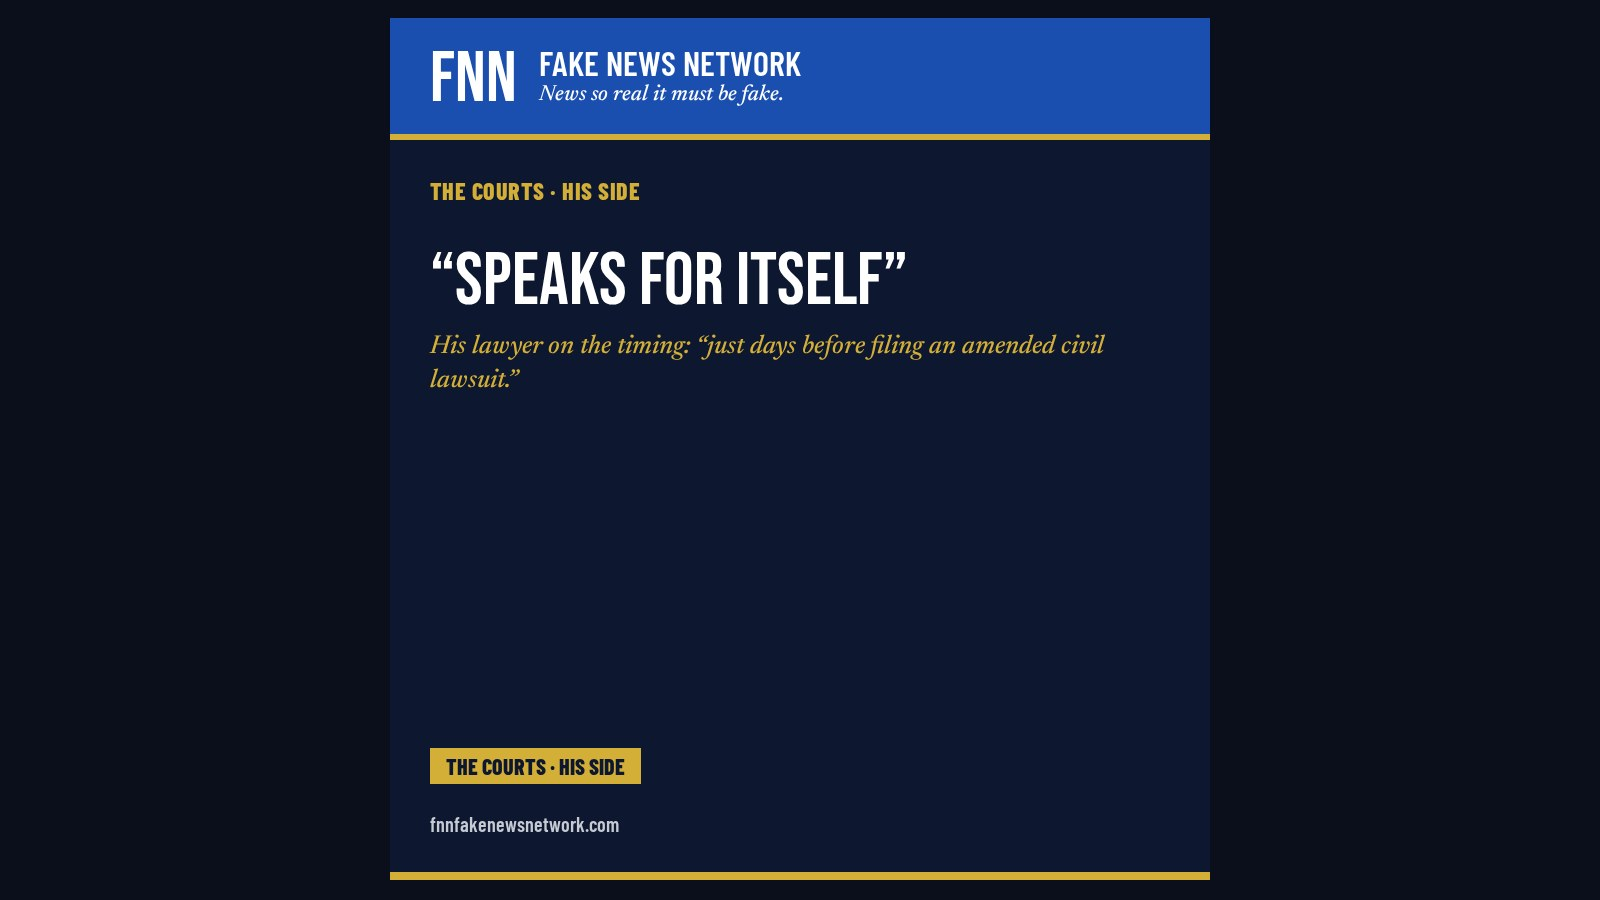
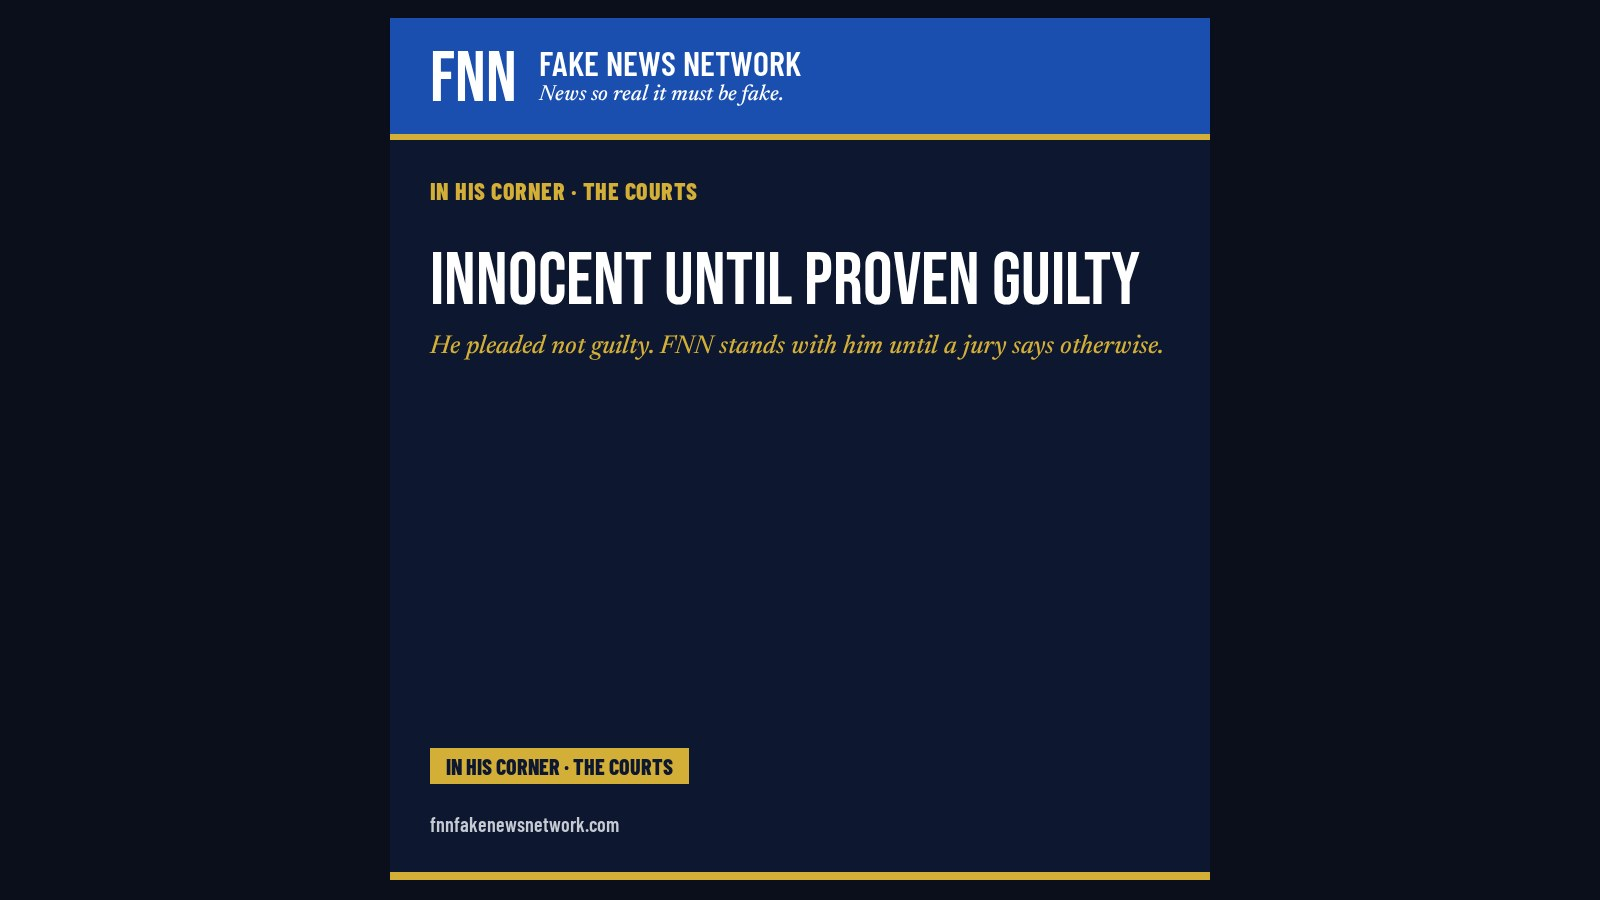
Rewrite Clavicular story as FNN defense ('Innocent Until Proven Guilty. Clavicular Deserves That Too.'): pundits convicted him before any trial; not-guilty plea; Meier: 'categorically denies these allegations', 'nothing to report', timing 'speaks for itself'; motion to dismiss; FNN stands with him u

diff --git a/s/clavicular-lawyer-timing-speaks-for-itself/index.html b/s/clavicular-lawyer-timing-speaks-for-itself/index.html
@@ -2,29 +2,29 @@
 <html lang="en"><head>
 <meta charset="utf-8">
 <meta name="viewport" content="width=device-width, initial-scale=1">
-<title>Clavicular Pleads Not Guilty, and His Lawyer Says the Timing “Speaks for Itself”</title>
-<meta name="description" content="Clavicular pleaded not guilty. His lawyer: he “categorically denies these allegations,” and the timing of the complaint “speaks for itself.”">
+<title>Innocent Until Proven Guilty. Clavicular Deserves That Too.</title>
+<meta name="description" content="The pundits convicted Clavicular before any trial. He pleaded not guilty, and his lawyer says the timing “speaks for itself.” FNN stands with him until a jury says otherwise.">
 <link rel="canonical" href="https://www.fnnfakenewsnetwork.com/story/clavicular-lawyer-timing-speaks-for-itself">
 <meta property="og:type" content="article">
 <meta property="og:site_name" content="FNN Fake News Network">
-<meta property="og:title" content="Clavicular Pleads Not Guilty, and His Lawyer Says the Timing “Speaks for Itself”">
-<meta property="og:description" content="Clavicular pleaded not guilty. His lawyer: he “categorically denies these allegations,” and the timing of the complaint “speaks for itself.”">
+<meta property="og:title" content="Innocent Until Proven Guilty. Clavicular Deserves That Too.">
+<meta property="og:description" content="The pundits convicted Clavicular before any trial. He pleaded not guilty, and his lawyer says the timing “speaks for itself.” FNN stands with him until a jury says otherwise.">
 <meta property="og:url" content="https://www.fnnfakenewsnetwork.com/story/clavicular-lawyer-timing-speaks-for-itself">
 <meta property="og:image" content="https://richdiskin.github.io/fnn-data/og/clavicular-lawyer-timing-speaks-for-itself.jpg">
 <meta property="og:image:secure_url" content="https://richdiskin.github.io/fnn-data/og/clavicular-lawyer-timing-speaks-for-itself.jpg">
 <meta property="og:image:type" content="image/jpeg">
 <meta property="og:image:width" content="1200">
 <meta property="og:image:height" content="630">
-<meta property="og:image:alt" content="FNN graphic: speaks for itself">
+<meta property="og:image:alt" content="FNN graphic: innocent until proven guilty">
 <meta name="twitter:card" content="summary_large_image">
-<meta name="twitter:title" content="Clavicular Pleads Not Guilty, and His Lawyer Says the Timing “Speaks for Itself”">
-<meta name="twitter:description" content="Clavicular pleaded not guilty. His lawyer: he “categorically denies these allegations,” and the timing of the complaint “speaks for itself.”">
+<meta name="twitter:title" content="Innocent Until Proven Guilty. Clavicular Deserves That Too.">
+<meta name="twitter:description" content="The pundits convicted Clavicular before any trial. He pleaded not guilty, and his lawyer says the timing “speaks for itself.” FNN stands with him until a jury says otherwise.">
 <meta name="twitter:image" content="https://richdiskin.github.io/fnn-data/og/clavicular-lawyer-timing-speaks-for-itself.jpg">
-<meta name="twitter:image:alt" content="FNN graphic: speaks for itself">
+<meta name="twitter:image:alt" content="FNN graphic: innocent until proven guilty">
 <script>location.replace("https://tulip-summit-leaf-blue.grok.me/story/clavicular-lawyer-timing-speaks-for-itself");</script>
 </head><body style="font-family:Georgia,serif;max-width:640px;margin:40px auto;padding:0 16px">
 <p><strong>FNN Fake News Network</strong></p>
-<h1 style="font-size:24px">Clavicular Pleads Not Guilty, and His Lawyer Says the Timing “Speaks for Itself”</h1>
-<p>Clavicular pleaded not guilty. His lawyer: he “categorically denies these allegations,” and the timing of the complaint “speaks for itself.”</p>
+<h1 style="font-size:24px">Innocent Until Proven Guilty. Clavicular Deserves That Too.</h1>
+<p>The pundits convicted Clavicular before any trial. He pleaded not guilty, and his lawyer says the timing “speaks for itself.” FNN stands with him until a jury says otherwise.</p>
 <p><a href="https://tulip-summit-leaf-blue.grok.me/story/clavicular-lawyer-timing-speaks-for-itself">Read the story on FNN</a></p>
 </body></html>
